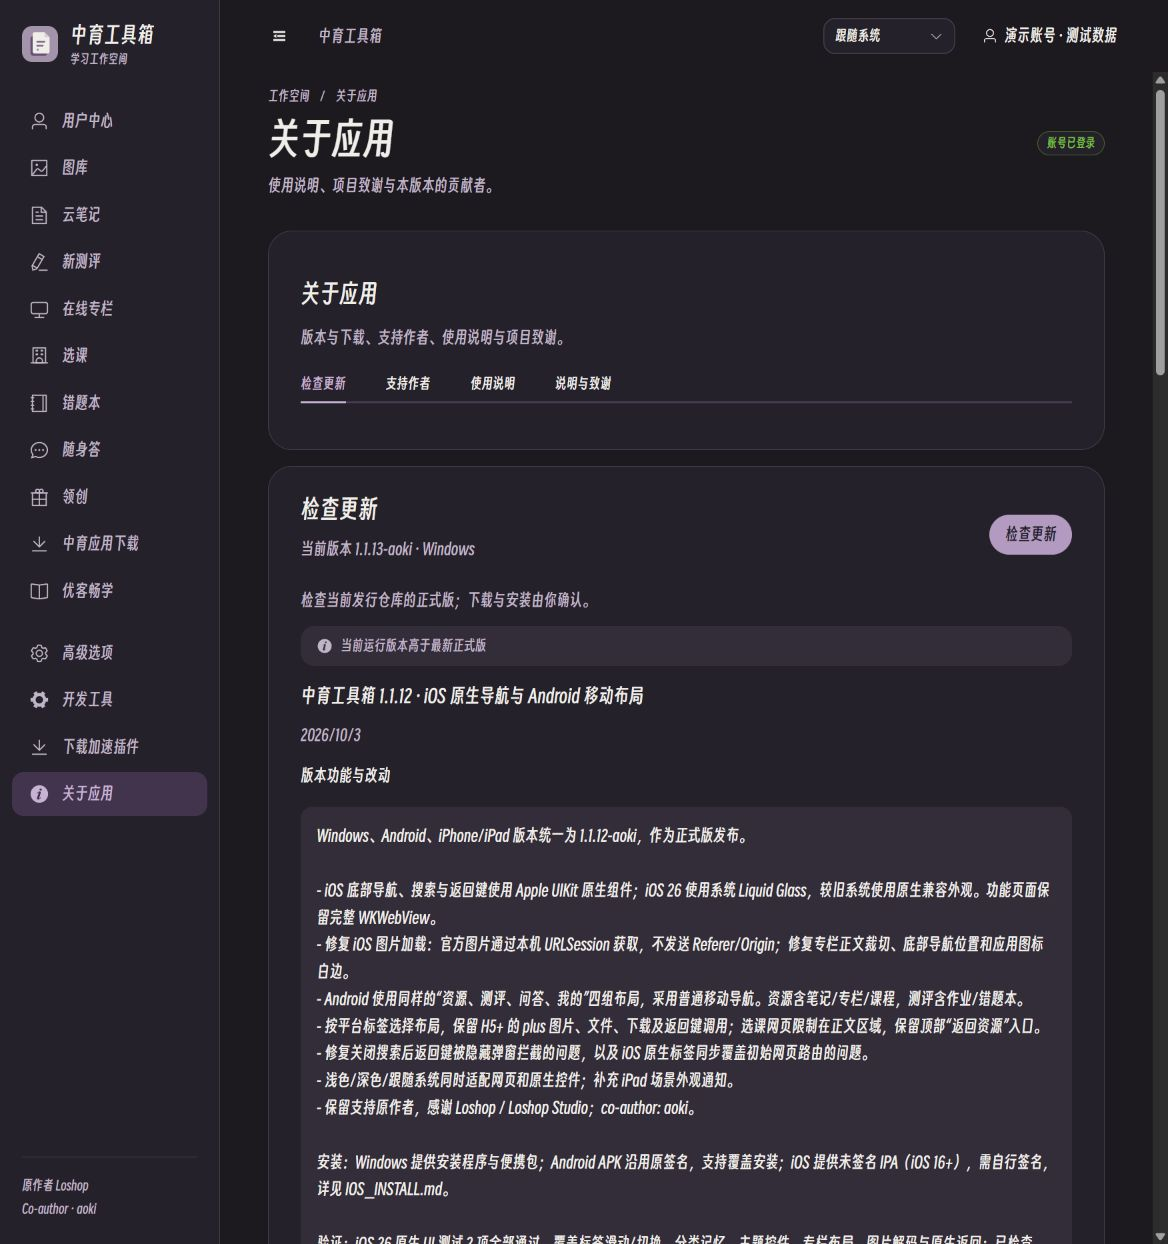
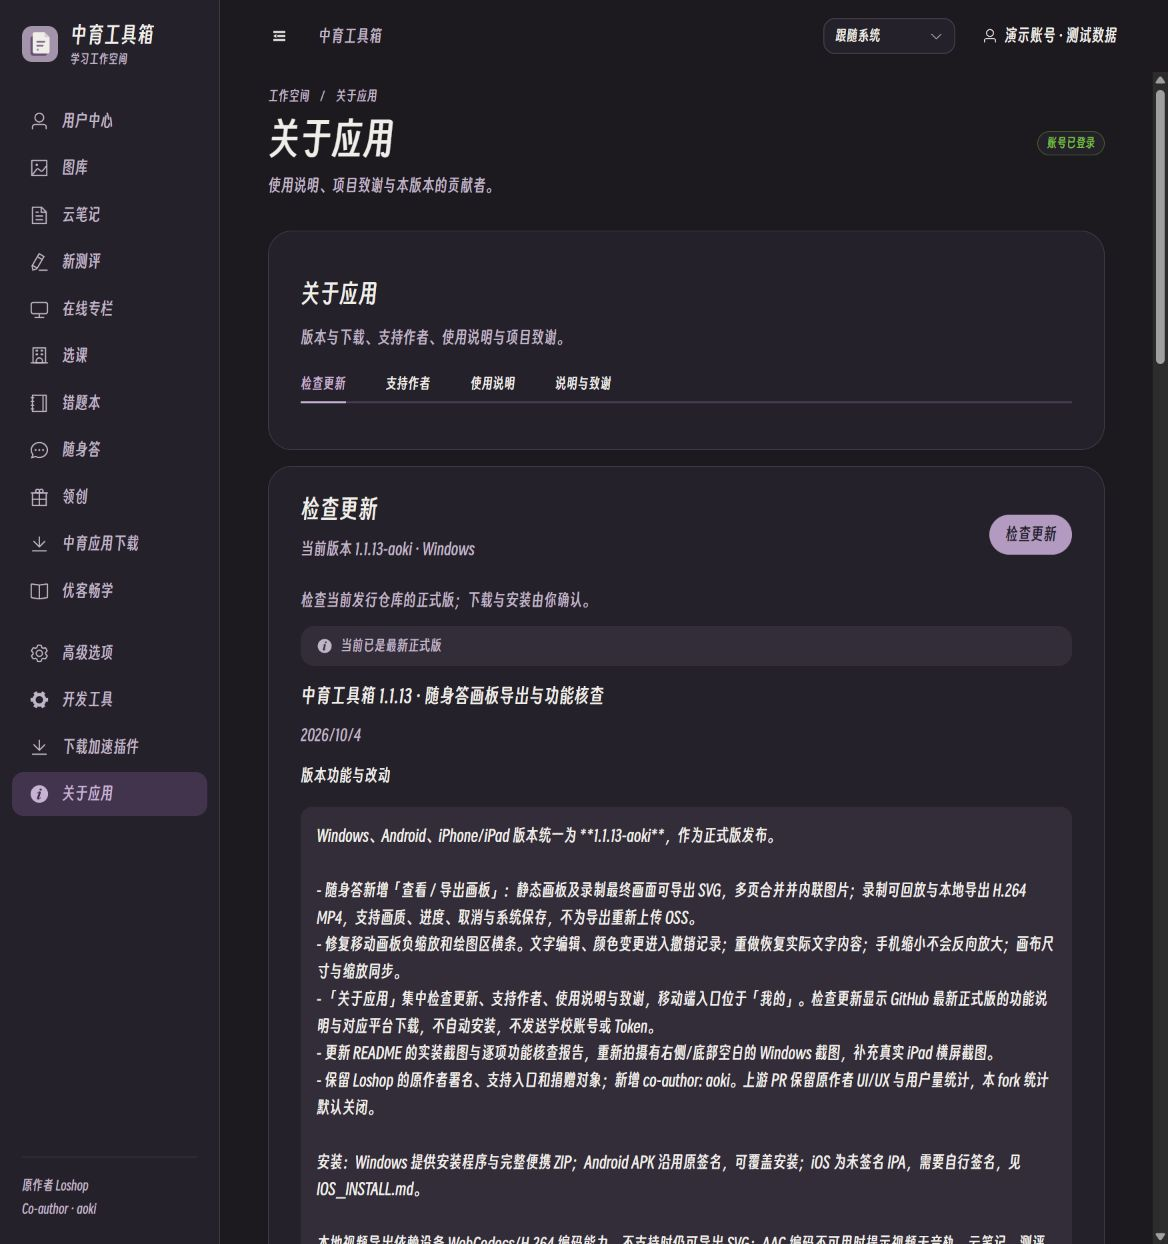
docs: show published 1.1.13 update and corrected captions [skip ci]

diff --git a/docs/FEATURE_VERIFICATION.md b/docs/FEATURE_VERIFICATION.md
@@ -7,7 +7,7 @@
 - Windows 原生 WebView2 实际运行：**160 条断言通过**（144 种不同检查，部分查询按七个应用重复验证），包含本地图片/PDF 转换、业务错误处理、路由生命周期、原生分块保存、实际公开接口读取和随身答编码。原始结果见 [windows-qa.json](verification/windows-qa.json)。
 - 9 组命令测试通过：`test:pdf`、`test:linspirer`、`test:apps`、`test:picture`、`test:stats`、`test:official-apks`、`test:android`、`test:ios`、`test:update`。Windows 上的 `test:ios` 原生 Swift 部分跳过，不能当作 iOS 编译通过。
 - 新随身答浏览器测试：多页 SVG 640 × 1016，H.264 MP4 640 × 360 / 1.2 秒，视频和 AAC 音轨存在；预取消、中途取消、取消后重试通过。使用合成画板与 440Hz 音频。
-- 更新页面实际查询 GitHub，显示 1.1.12-aoki 正式版、更新说明和 Windows 下载链接；1.1.13-aoki 源码版正确提示高于当前正式版。
+- 更新页面实际查询 GitHub：发布前显示 1.1.12-aoki、更新说明和 Windows 下载链接，1.1.13-aoki 源码版正确提示高于当时正式版；发布后再次查询，正确显示 1.1.13-aoki 和“当前已是最新正式版”，并重新拍摄截图。
 - iOS 前端生产构建通过。390 × 844 的浏览器布局测试中，画板缩放为正数，绘图区约 350 × 380；文字输入和撤销/重做入口可操作。这不是 iOS 真机触摸测试。
 - 上游 [PR #10](https://github.com/Loshop-Studio/ZhongYuToolBox_Web/pull/10) 生产构建通过，沿用原作者 UI/UX 和统计代码；作者统计实现和登录调用相对当前上游没有改动。本 fork 正式包统计默认关闭。
 - 实际 Fabric 回复编辑器新增 12 条断言通过：文字确实绘制到像素画布；两次撤销恢复空白；两次重做恢复编辑后的文字并仍可编辑；颜色撤销/重做正确；手机缩小不会反向放大；清空保留白色背景。

diff --git a/README.md b/README.md
@@ -22,15 +22,15 @@
 
 <p><img src="docs/screenshots/iphone-light.png" alt="iPhone 浅色模式与系统 Liquid Glass 底栏" width="260"> <img src="docs/screenshots/iphone-dark.png" alt="iPhone 深色模式" width="260"> <img src="docs/screenshots/android-light.png" alt="Android 四栏布局" width="260"></p>
 
-**iPhone 画板回复：**实际输入文字、撤销并重做后的画布，缩放为正数。
+**iPhone 画板回复**：实际输入文字、撤销并重做后的画布，缩放为正数。
 
 <p><img src="docs/screenshots/iphone-board-reply.png" alt="iPhone 实际 WKWebView 画板回复与文字编辑" width="300"></p>
 
-**iPad 竖屏：**完整资源页及 Apple 原生底栏。
+**iPad 竖屏**：完整资源页及 Apple 原生底栏。
 
 <p><img src="docs/screenshots/ipad-light.png" alt="iPad 竖屏资源页" width="620"></p>
 
-**iPad 横屏：**截取整个模拟器屏幕，分别核查专栏列表、文章图片和“我的”页面；内容可正常滚动，四个原生标签在屏幕底部。浅色和深色截图独立标注，避免将 Windows 界面误认为 iPad。
+**iPad 横屏**：截取整个模拟器屏幕，分别核查专栏列表、文章图片和“我的”页面；内容可正常滚动，四个原生标签在屏幕底部。浅色和深色截图独立标注，避免将 Windows 界面误认为 iPad。
 
 <p><img src="docs/screenshots/ipad-landscape-column-light.png" alt="iPad 横屏浅色专栏列表，完整屏幕" width="900"></p>
 
@@ -40,7 +40,7 @@
 
 <p><img src="docs/screenshots/ipad-landscape-my-dark.png" alt="iPad 横屏深色我的页面与原生底栏" width="900"></p>
 
-**Windows：**云笔记与关于应用，重新拍摄完整视口。
+**Windows**：云笔记与关于应用，重新拍摄完整视口；检查更新截图显示已发布的 1.1.13-aoki 正式版。
 
 <p><img src="docs/screenshots/windows-notes.jpg" alt="Windows 云笔记与批量整理入口，离线演示数据" width="900"></p>
 
